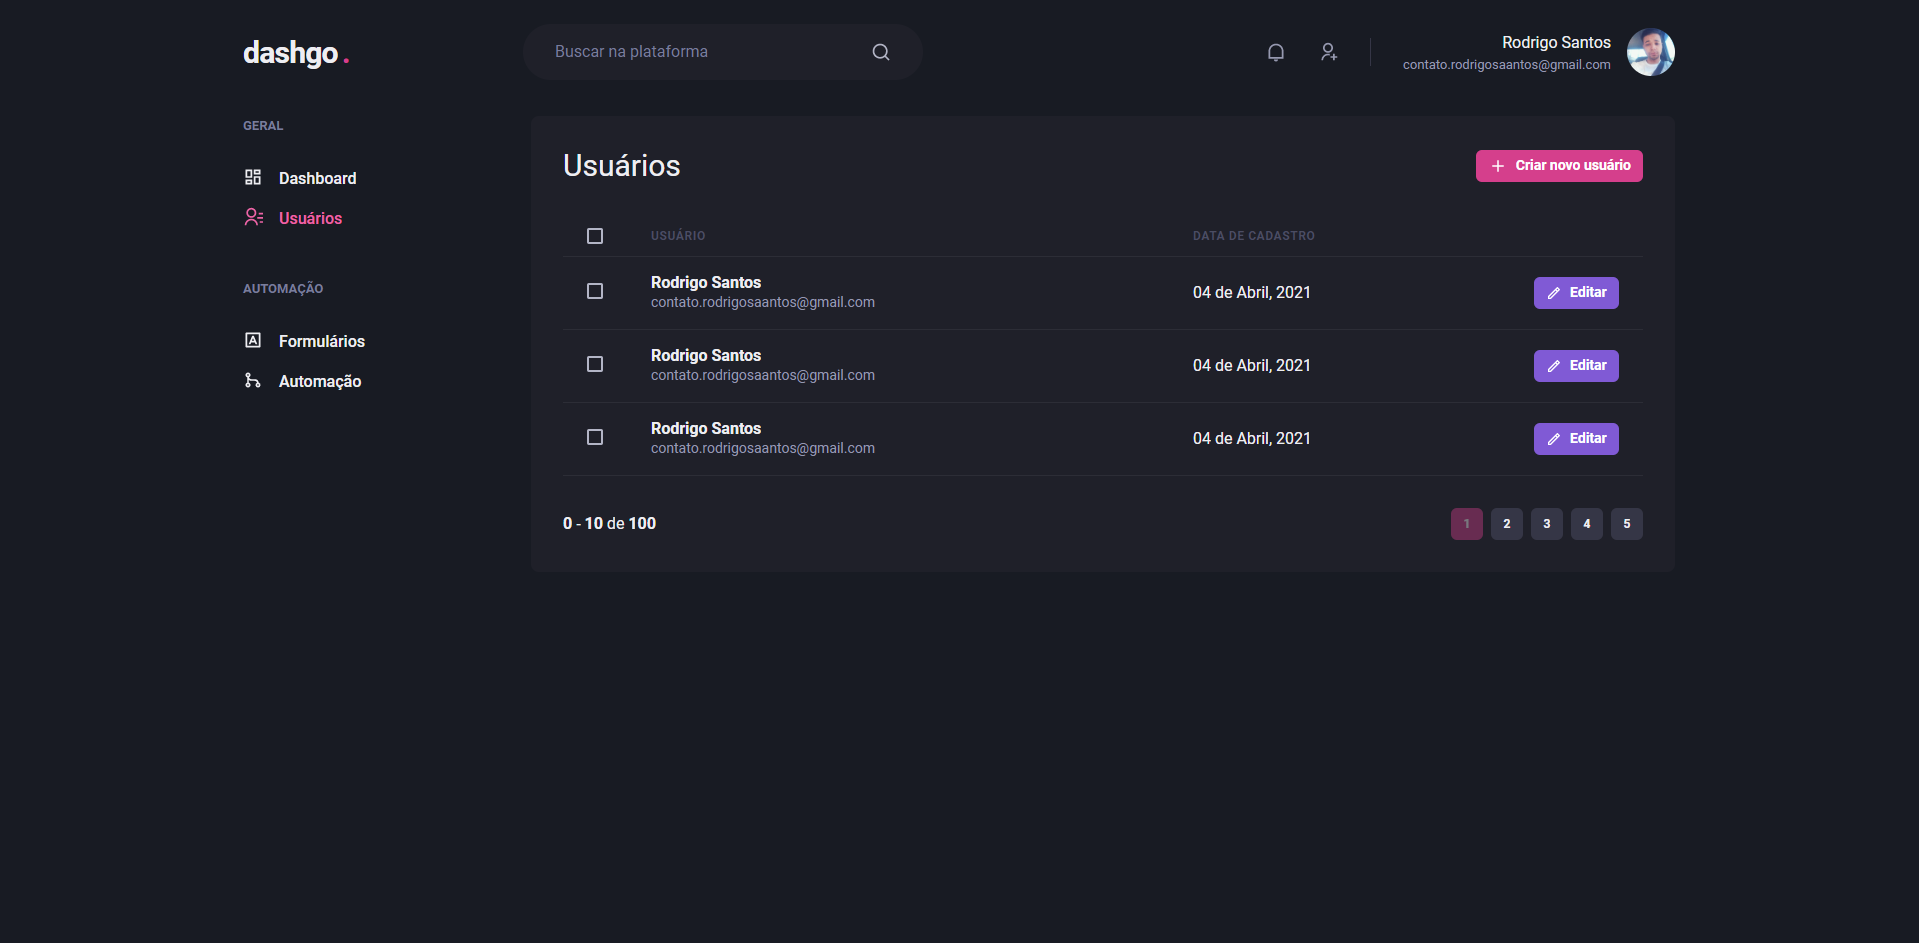
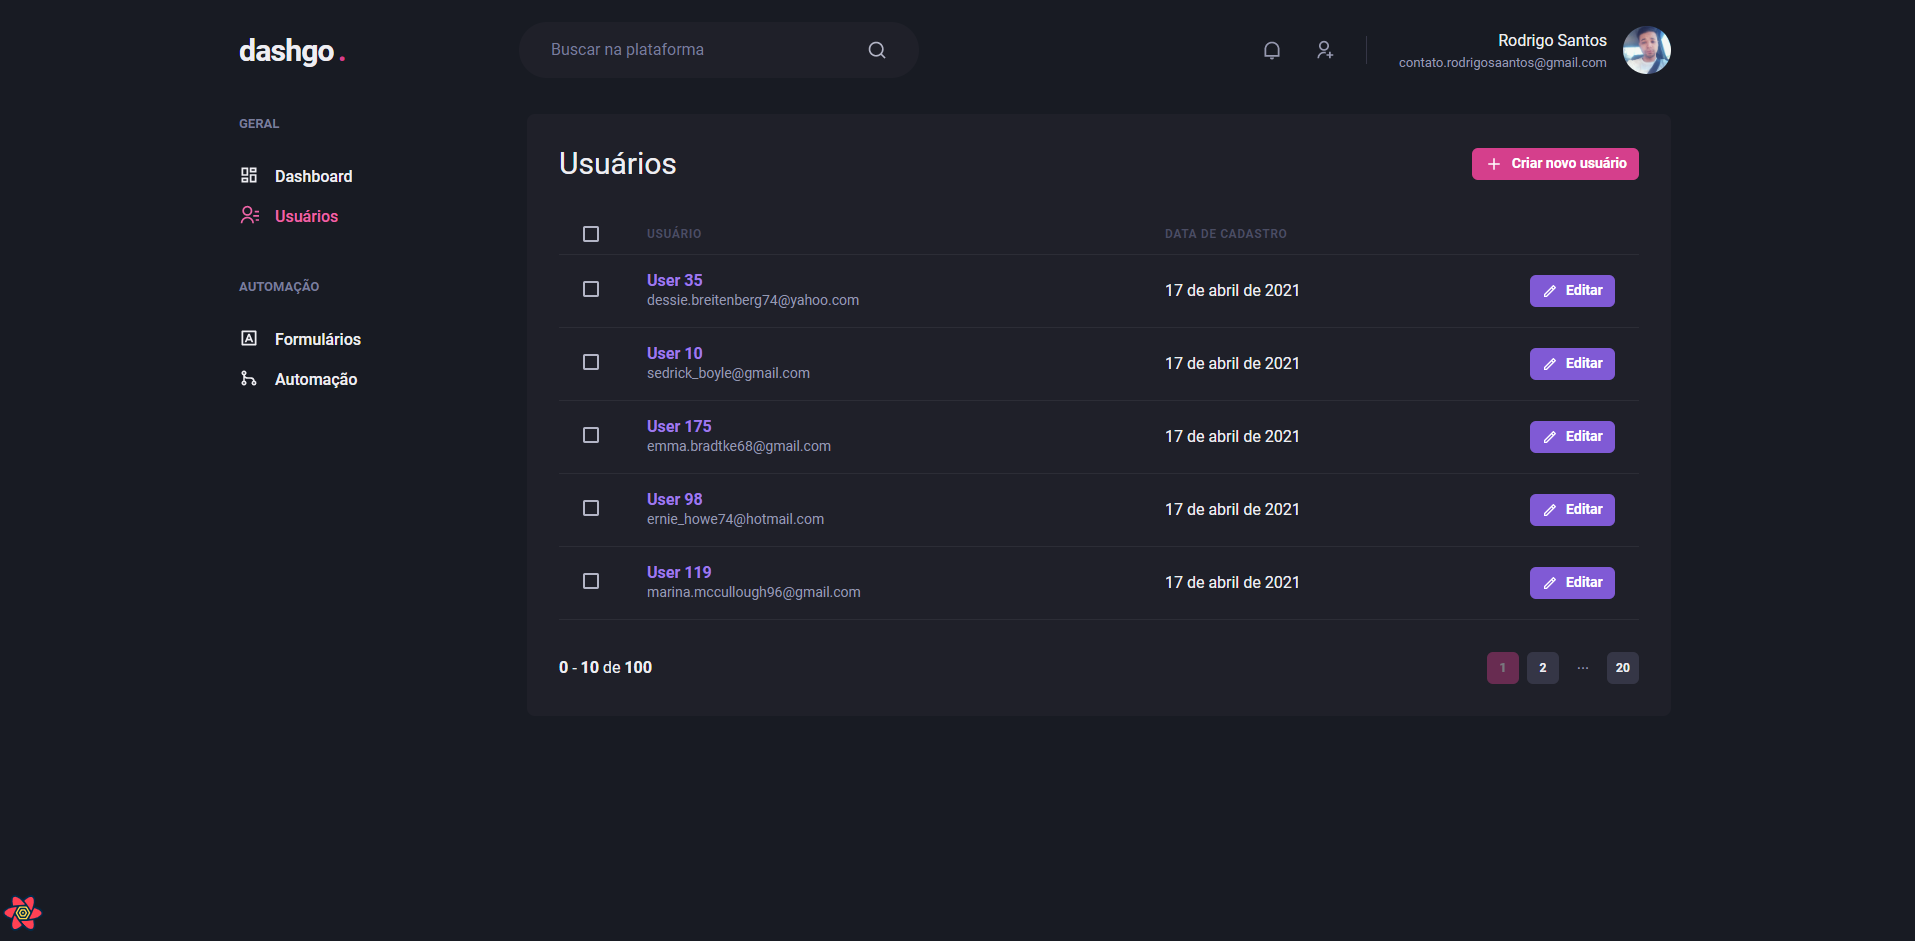
Update README demo and photo users

diff --git a/src/services/mirage/index.ts b/src/services/mirage/index.ts
@@ -37,7 +37,7 @@ export function makeServer() {
     },
 
     seeds(srv) {
-      srv.createList('user', 8);
+      srv.createList('user', 200);
     },
 
     routes() {
@@ -45,7 +45,7 @@ export function makeServer() {
       this.timing = 750;
 
       this.get('/users', function (schema, request) {
-        const { page = 1, per_page = 10 } = request.queryParams;
+        const { page = 1, per_page = 5 } = request.queryParams;
 
         const total = schema.all('user').length;
 
